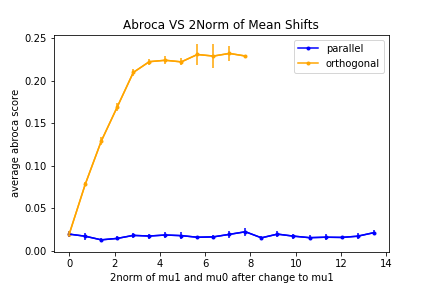
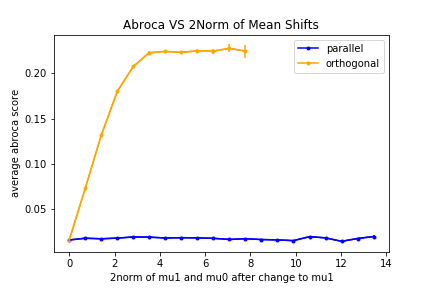
bug fixes

diff --git a/src/visualization.py b/src/visualization.py
@@ -1,11 +1,12 @@
 import numpy as np
-from sklearn.linear_model import LogisticRegressionCV
+from matplotlib import pyplot as plt
+from sklearn.linear_model import LogisticRegressionCV, LogisticRegression
 from sklearn.metrics import roc_curve, auc
 from sklearn.model_selection import train_test_split
 
 from scipy.stats import sem
 
-from src.abroca import compute_abroca
+from src.abroca import compute_abroca, abroca_from_predictions
 from src.simulation import set_defaults, simulate
 
 
@@ -14,23 +15,25 @@ def regress(X, y, n, p_0):
     X_train_0, X_test_0, y_train_0, y_test_0 = train_test_split(X[:n_0], y[:n_0], test_size=0.2, random_state=0)
     X_train_1, X_test_1, y_train_1, y_test_1 = train_test_split(X[n_0:], y[n_0:], test_size=0.2, random_state=0)
 
+    if len(set(y_test_0)) == 1 or len(set(y_test_1)) == 1:
+        return
+
     X_train = np.append(X_train_0, X_train_1, axis=0)
     y_train = np.append(y_train_0, y_train_1, axis=0)
+    y_test = np.append(y_test_0, y_test_1, axis=0)
 
     if len(set(y_train)) == 1:
         return
 
     # regressor = RandomForestRegressor(n_estimators = 10, random_state=0)
-    regressor = LogisticRegression()
+    regressor = LogisticRegression(solver='lbfgs')
     # regressor = LogisticRegressionCV(cv=5)
     perm = np.random.permutation(len(y_train))
     regressor.fit(X_train[perm], y_train[perm])
 
     y_pred_0 = regressor.predict(X_test_0)
     y_pred_1 = regressor.predict(X_test_1)
-
-    if len(set(y_test_0)) == 1 or len(set(y_test_1)) == 1:
-        return
+    y_pred = np.append(y_pred_0, y_pred_1, axis=0)
 
     fpr_0, tpr_0, _ = roc_curve(y_test_0, y_pred_0)
     fpr_1, tpr_1, _ = roc_curve(y_test_1, y_pred_1)
@@ -74,7 +77,7 @@ def ABROCAvs_plot(plot_type, versus, r=10, s=0, n=10000, p_0=.5, eta_sd=np.full(
             if reg is None:
                 continue
             else:
-                fpr_0, tpr_0, fpr_1, tpr_1, g0auc, g1auc, abroca = reg
+                _, _, _, _, _, _, abroca = reg
 
             abrocas[j] = abroca
 

diff --git a/src/abroca.py b/src/abroca.py
@@ -1,7 +1,7 @@
 import numpy as np
 from scipy import interpolate
 from scipy import integrate
-from sklearn.metrics import roc_curve
+from sklearn.metrics import roc_curve, auc
 
 
 def interpolate_roc_fun(fpr, tpr, n_grid):
@@ -45,5 +45,6 @@ def abroca_from_predictions(y_true: np.ndarray, y_pred: np.ndarray,
     # Compute abroca.
     fpr_0, tpr_0, _ = roc_curve(y_true=y_true[idxs_0], y_score=y_pred[idxs_0])
     fpr_1, tpr_1, _ = roc_curve(y_true=y_true[idxs_1], y_score=y_pred[idxs_1])
+
     abroca = compute_abroca(fpr_0, tpr_0, fpr_1, tpr_1)
     return abroca

diff --git a/src/simulation.py b/src/simulation.py
@@ -44,7 +44,7 @@ def simulate(n=10000, p_0=.5, eta_sd=np.full(2, .1), eta_mean=np.zeros(2), d=2, 
         ax = np.random.multivariate_normal(mu[i], sigma[i], size=n_i)
         X = np.append(X.reshape((-1, d)), ax, axis=0)
         aeta = np.random.normal(eta_mean[i], eta_sd[i], n_i).reshape((-1, 1))
-        ap = expit(np.sum(theta[i] * ax, axis=1) + aeta)
+        ap = expit(np.sum(np.append(theta[i] * ax, aeta, axis=1), axis=1))
         ay = np.less_equal(np.random.uniform(size=len(ap)), ap)
         y = np.append(y, ay, axis=0)
     return X, y
